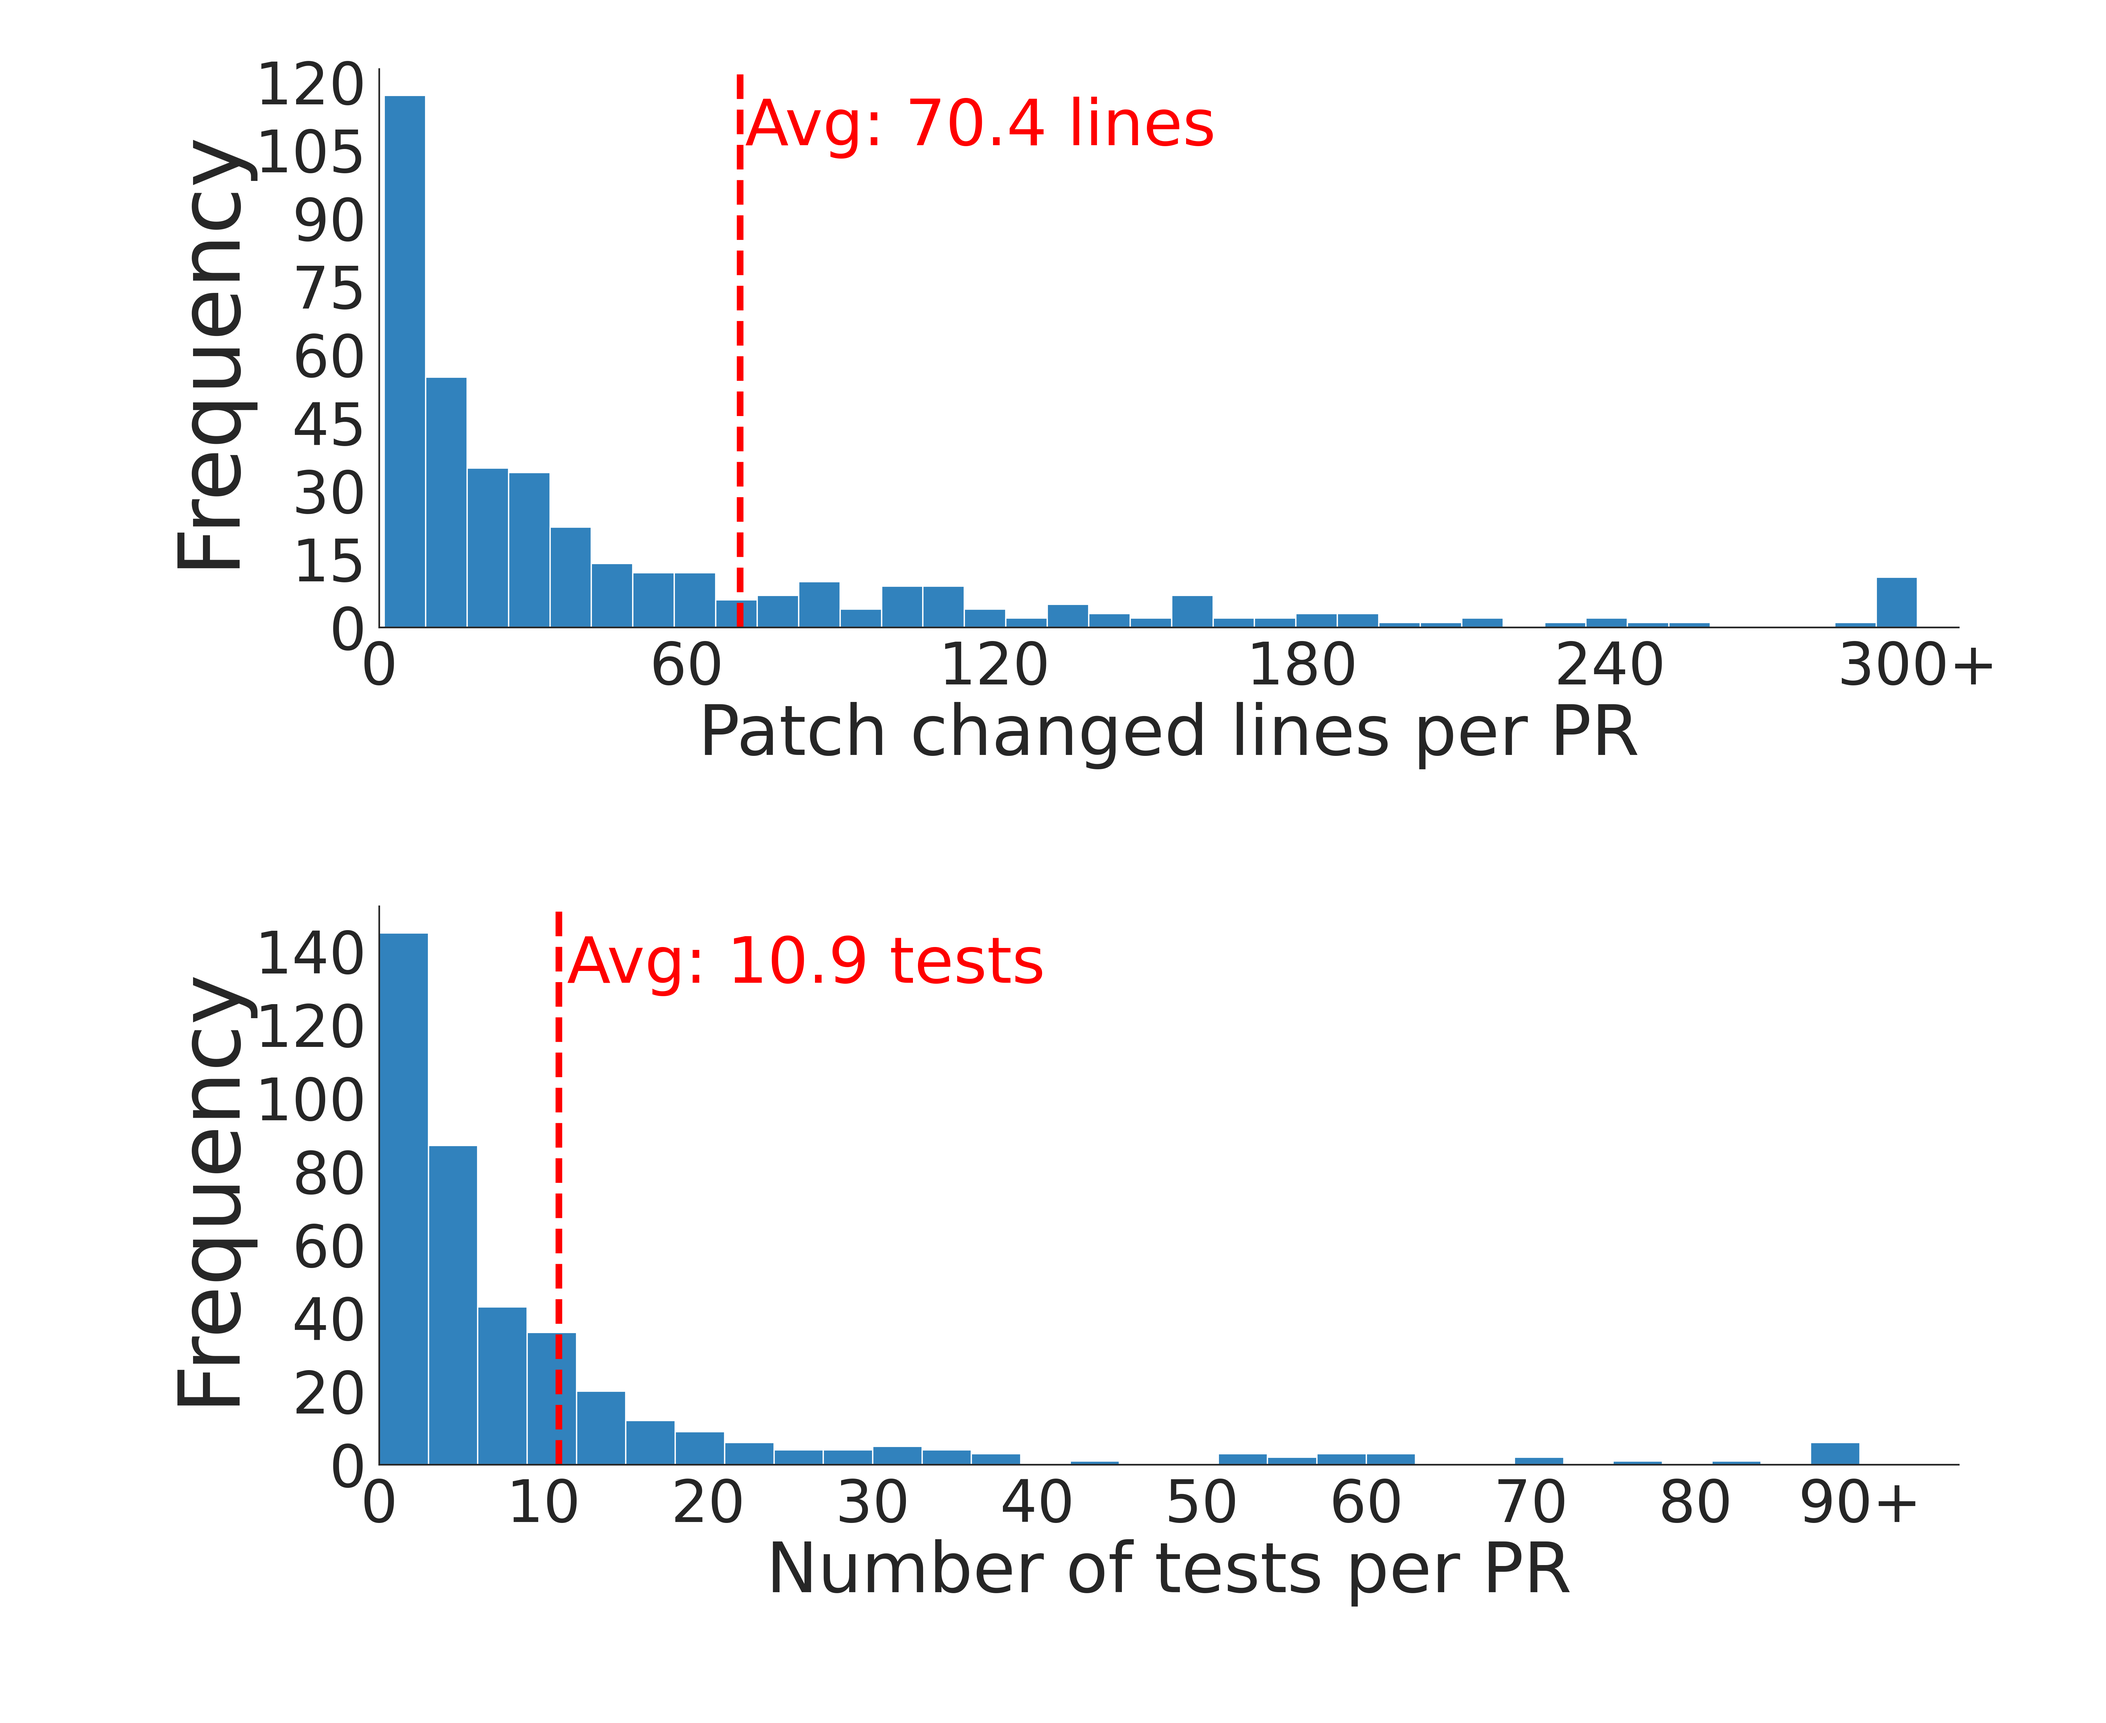
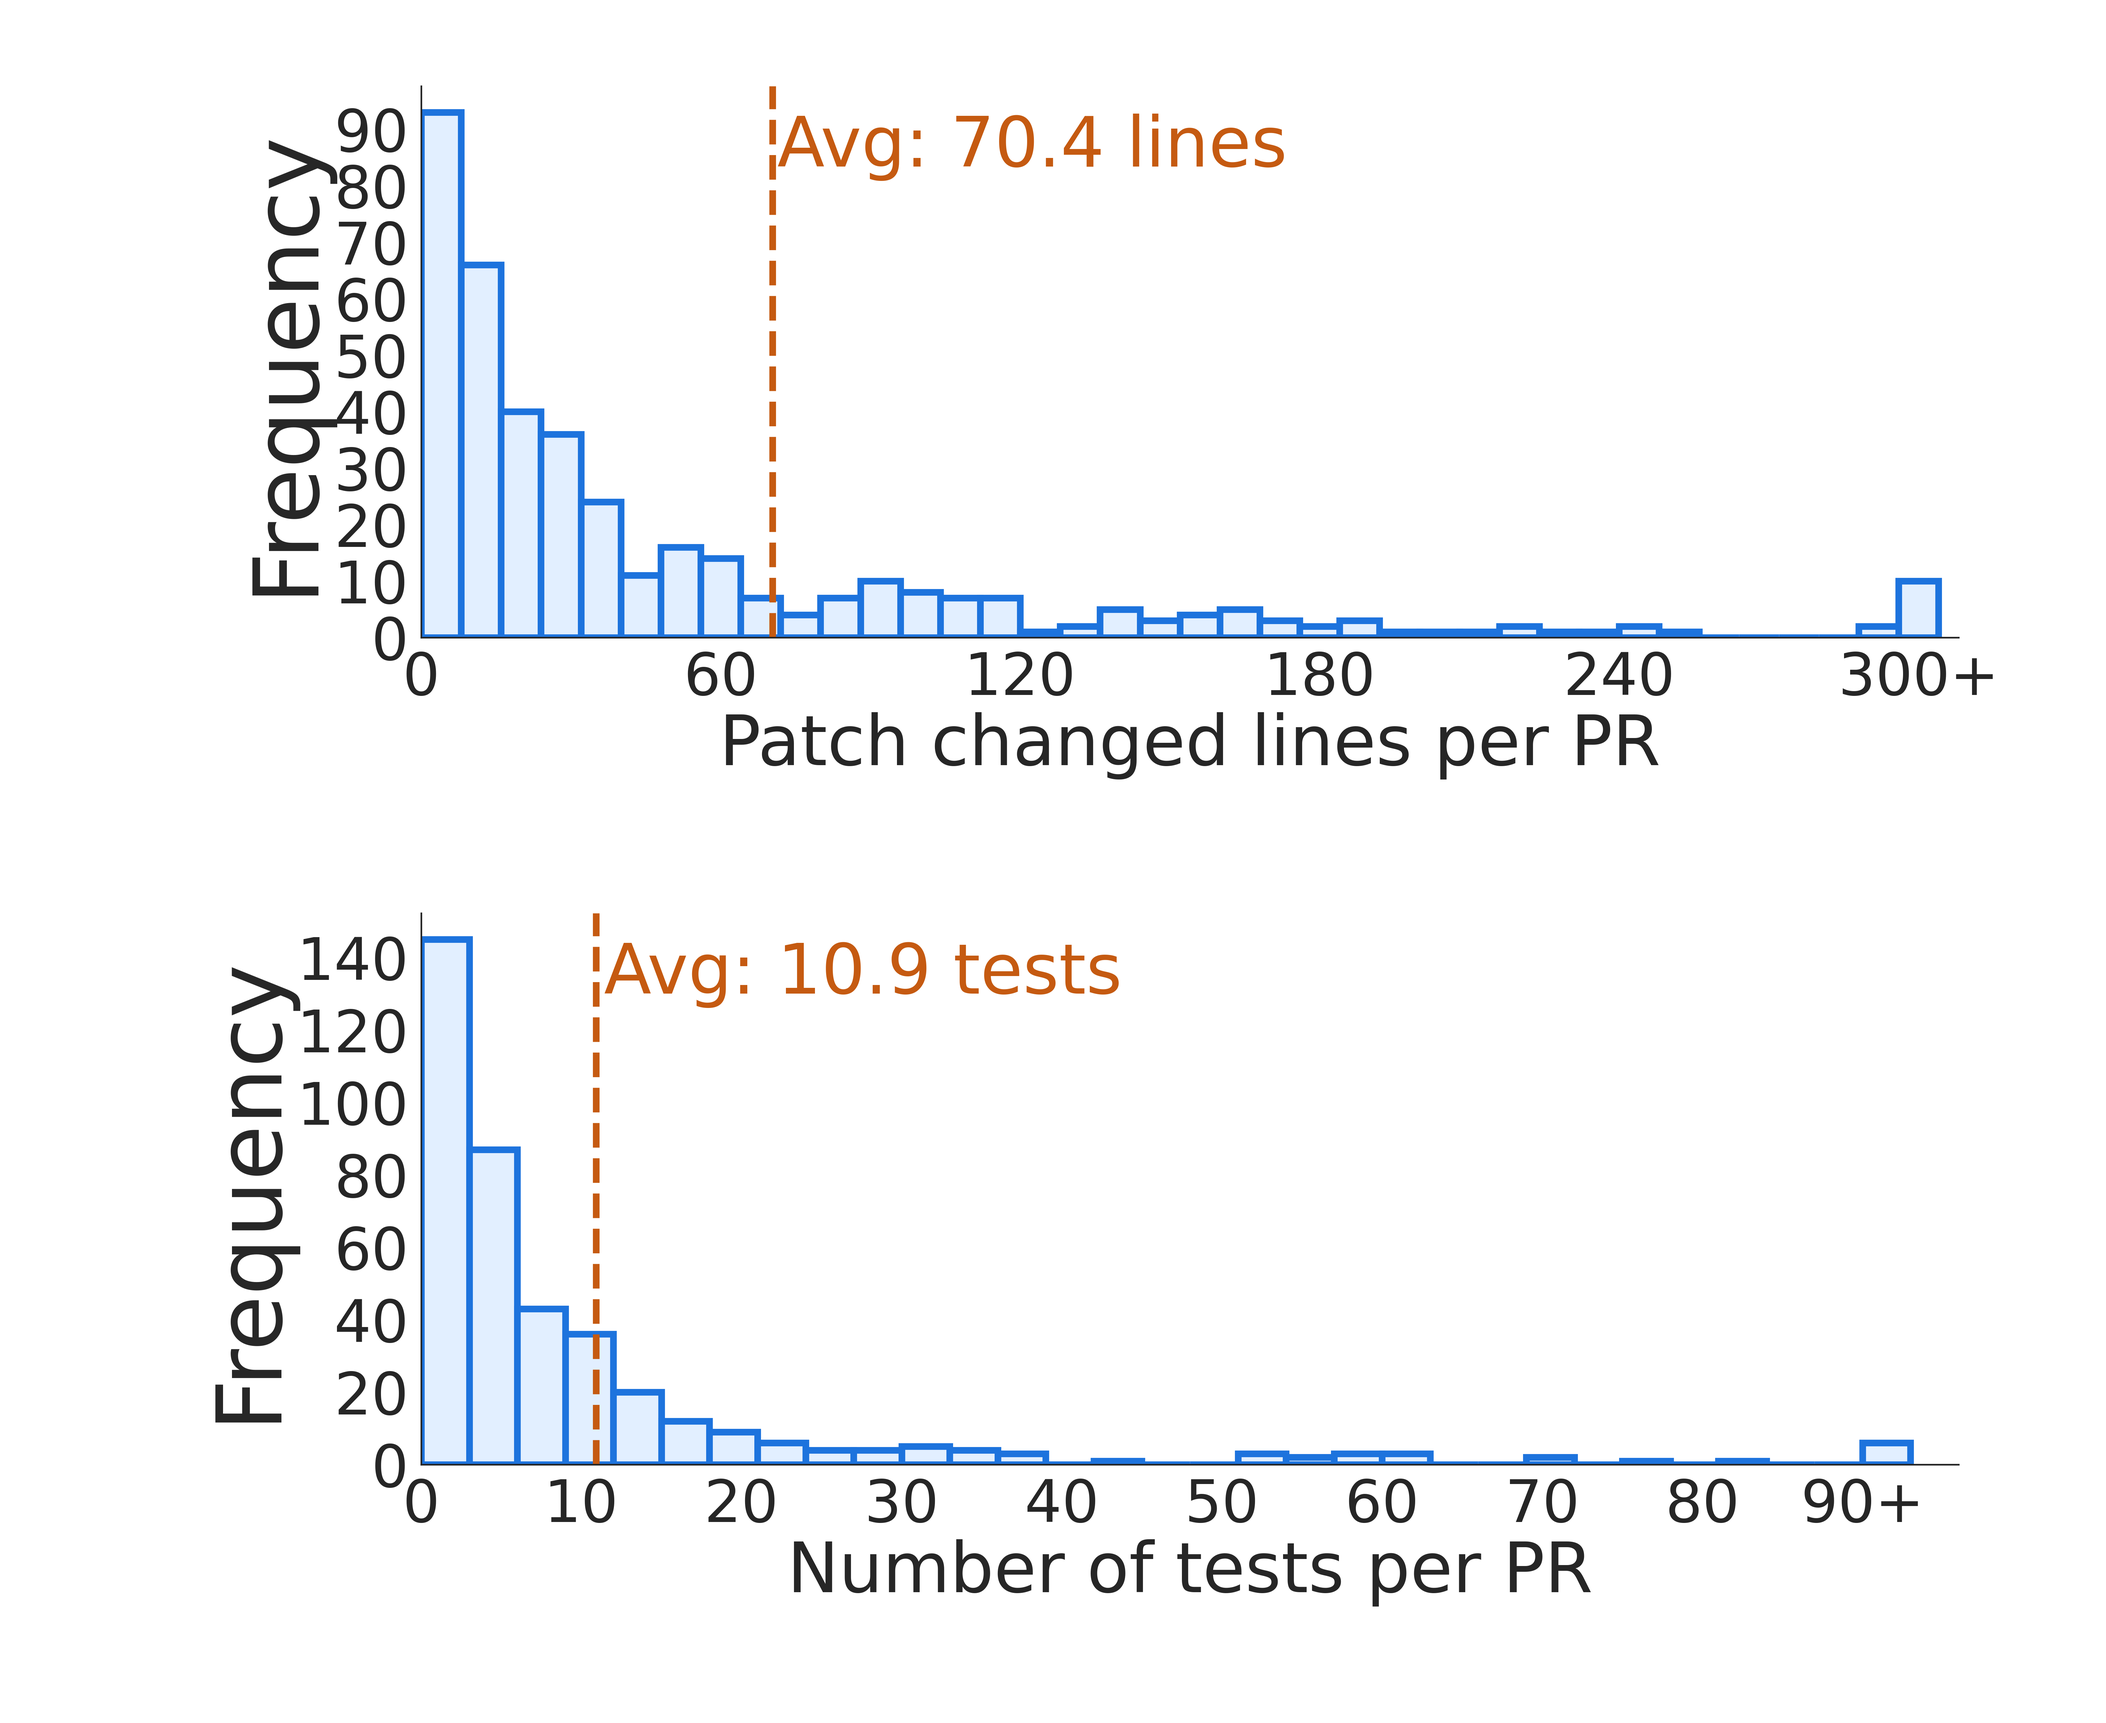
fix: use uniform colors in pr stats

Changed region(s): [[0.0936, 0.0311, 0.9364, 0.4667], [0.0936, 0.5289, 0.7491, 0.9333], [0.7803, 0.8089, 0.9052, 0.9022]]

diff --git a/experiment/3-real-world/gen_fig_pr_status.py b/experiment/3-real-world/gen_fig_pr_status.py
@@ -79,32 +79,42 @@ custom_params = {
 sns.set_theme(style="white", rc=custom_params, font_scale=4)
 
 fig, axes = plt.subplots(2, 1, figsize=(22, 18))
-custom_blue = "#3182BD"  # Updated color from reference image
+custom_blue = "#E2EFFF"  # Updated color from reference image
+line_blue = "#1D73DD"
+custom_red = "#C55A11"
 
 # Create histograms
 plot_line = sns.histplot(
   patch_plot_values,
   kde=False,
-  bins="auto",
+  bins=range(0, PATCH_TAIL_THRESHOLD + 9, 8),
   color=custom_blue,
   alpha=1,
-  binwidth=8,
   discrete=False,
   ax=axes[0],
 )
+# Set edge color for top plot
+for patch in axes[0].patches:
+  patch.set_edgecolor(line_blue)
+  patch.set_linewidth(5)
+
 plot_branch = sns.histplot(
   test_plot_values,
   kde=False,
-  bins="auto",
+  bins=range(0, TEST_TAIL_THRESHOLD + 4, 3),
   color=custom_blue,
   alpha=1,
-  binwidth=3,
   discrete=False,
   ax=axes[1],
 )
+# Set edge color for bottom plot
+for patch in axes[1].patches:
+  patch.set_edgecolor(line_blue)
+  patch.set_linewidth(5)
 
-fig.tight_layout()
-plt.subplots_adjust(wspace=0.2, hspace=0.5, left=0.18, right=0.93, bottom=0.15)
+plt.subplots_adjust(
+  wspace=0.2, hspace=0.5, left=0.20, right=0.93, bottom=0.15, top=0.95
+)
 
 # Set labels and limits
 plot_line.set(
@@ -113,12 +123,12 @@ plot_line.set(
   xlim=[0, PATCH_TAIL_THRESHOLD + 8],
 )
 plot_line.set_xlabel("Patch changed lines per PR", fontsize=52)
-plot_line.set_ylabel("Frequency", fontsize=64)
+plot_line.set_ylabel("Frequency", fontsize=68)
 plot_branch.set(
   xlabel="Number of tests per PR", ylabel="Frequency", xlim=[0, TEST_TAIL_THRESHOLD + 6]
 )
 plot_branch.set_xlabel("Number of tests per PR", fontsize=52)
-plot_branch.set_ylabel("Frequency", fontsize=64)
+plot_branch.set_ylabel("Frequency", fontsize=68)
 axes[0].set_xticks([0, 60, 120, 180, 240, 300])
 axes[0].set_xticklabels(["0", "60", "120", "180", "240", "300+"])
 axes[1].set_xticks([0, 10, 20, 30, 40, 50, 60, 70, 80, 90])
@@ -131,23 +141,23 @@ axes[0].grid(False)
 axes[1].grid(False)
 
 # Draw vertical average lines and labels
-axes[0].axvline(x=avg_patch, color="red", linestyle="--", linewidth=5)
+axes[0].axvline(x=avg_patch, color=custom_red, linestyle="--", linewidth=5)
 axes[0].text(
   avg_patch + 1,
   axes[0].get_ylim()[1] * 0.95,
   f"Avg: {avg_patch:.1f} lines",
-  color="red",
-  fontsize=48,
+  color=custom_red,
+  fontsize=52,
   verticalalignment="top",
 )
 
-axes[1].axvline(x=avg_tests, color="red", linestyle="--", linewidth=5)
+axes[1].axvline(x=avg_tests, color=custom_red, linestyle="--", linewidth=5)
 axes[1].text(
   avg_tests + 0.5,
   axes[1].get_ylim()[1] * 0.95,
   f"Avg: {avg_tests:.1f} tests",
-  color="red",
-  fontsize=48,
+  color=custom_red,
+  fontsize=52,
   verticalalignment="top",
 )
 
